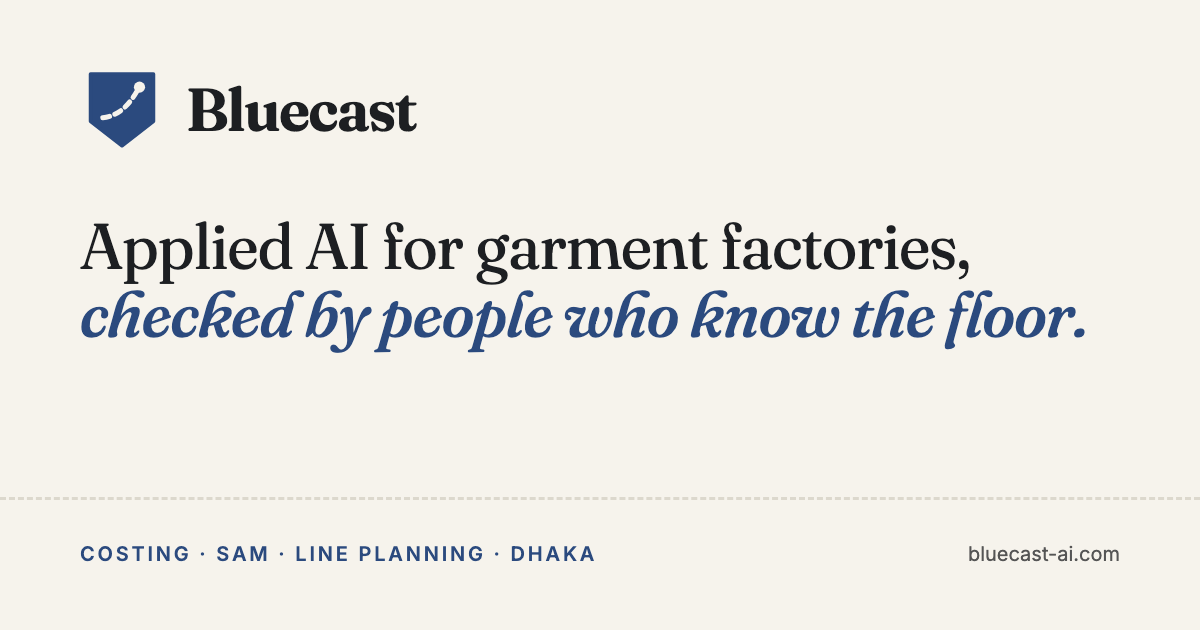
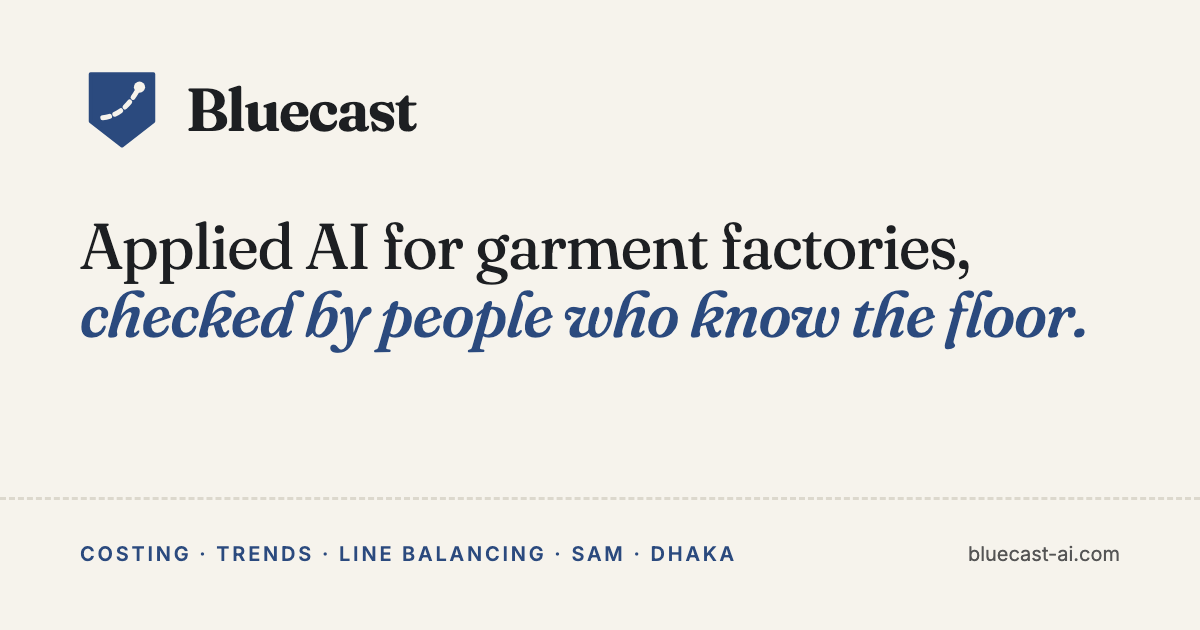
Remove planning dashboards and reorder services
New order: AI pre-costing, product trend intelligence, line balancing,
SAM from video. Update counts, descriptions, team lead line and the
social image.

Claude-Session: https://claude.ai/code/session_01UXRmXdToK17FQkF1tQ9JCa

Changed region(s): [[0.185, 0.8444, 0.6167, 0.9048]]

diff --git a/services.html b/services.html
@@ -5,9 +5,9 @@
 <meta name="viewport" content="width=device-width, initial-scale=1">
 <meta name="theme-color" content="#f6f3ec">
 <title>Services · Bluecast AI</title>
-<meta name="description" content="Five services for Bangladesh RMG factories: AI pre-costing, SAM from video, line balancing, planning dashboards and product trend intelligence.">
+<meta name="description" content="Four services for Bangladesh RMG factories: AI pre-costing, product trend intelligence, line balancing and SAM from video.">
 <meta property="og:title" content="Services · Bluecast AI">
-<meta property="og:description" content="AI pre-costing, SAM from video, line balancing, planning dashboards and product trend intelligence for RMG factories.">
+<meta property="og:description" content="AI pre-costing, product trend intelligence, line balancing and SAM from video for RMG factories.">
 <meta property="og:type" content="website">
 <meta property="og:url" content="https://bluecast-ai.com/services.html">
 <meta property="og:site_name" content="Bluecast AI">
@@ -45,8 +45,8 @@
   <section class="hero">
     <div class="wrap">
       <span class="eyebrow">Services</span>
-      <h1>Five services. <em>Each one ends with your <span class="nowrap">sign-off.</span></em></h1>
-      <p class="lede">The first four follow a garment from quote to floor to plan. The fifth helps product development teams see what buyers are moving towards.</p>
+      <h1>Four services. <em>Each one ends with your <span class="nowrap">sign-off.</span></em></h1>
+      <p class="lede">Two work before the order, on the quote and the buyer trend. Two work on the line, on balance and time.</p>
     </div>
   </section>
 
@@ -78,28 +78,31 @@
       </div>
     </section>
 
-    <section class="service" id="sam-video">
+    <section class="service" id="trend-intelligence">
       <div>
         <span class="num">02</span>
-        <h2>SAM from video</h2>
-        <span class="stage">Pilot · seeking first lines</span>
+        <h2>Product trend intelligence platform</h2>
+        <span class="stage">Platform in development</span>
         <div class="illo" aria-hidden="true">
           <svg viewBox="0 0 360 120" fill="none" stroke="currentColor" stroke-width="1.5" stroke-linecap="round" stroke-linejoin="round">
-            <rect x="10" y="34" width="70" height="50" rx="6"/><path d="M80 50l22-12v42l-22-12"/><circle cx="45" cy="59" r="12"/>
-            <path d="M126 59h86" stroke="var(--accent)" stroke-dasharray="4 5"/><path d="M206 53l8 6-8 6" stroke="var(--accent)"/>
-            <circle cx="288" cy="64" r="40"/><path d="M280 18h16M288 18v6"/>
-            <path d="M288 64V38" stroke="var(--accent)"/><path d="M288 64l18 12"/>
+            <path d="M8 20h92"/>
+            <path d="M24 20v8M54 20v8M84 20v8"/>
+            <path d="M16 28h16l2 66H14zM46 28h16l2 66H44zM76 28h16l2 66H74z"/>
+            <path d="M128 58h76" stroke="var(--accent)" stroke-dasharray="4 5"/><path d="M198 52l8 6-8 6" stroke="var(--accent)"/>
+            <rect x="232" y="14" width="116" height="92" rx="4"/>
+            <path d="M246 32h60M246 44h40"/>
+            <rect x="246" y="58" width="38" height="36" rx="3" stroke="var(--accent)"/><rect x="296" y="58" width="38" height="36" rx="3" stroke="var(--accent)"/>
           </svg>
         </div>
       </div>
       <div>
-        <p class="lede">CM, line targets and capacity are all set from SAM. It is usually estimated once, at costing. Few operations are timed.</p>
-        <p>We record a line with a phone or fixed camera. The model is built to find each operation cycle and measure its time. Your IE confirms method, rating and allowances before any SAM changes.</p>
+        <p class="lede">For PD&amp;D and design teams. Today a designer builds the buyer trend deck by hand, every season.</p>
+        <p>AI agents read public retailer product pages and track what is new on the shelf. They draft a trend report and design concepts, each linked to the products behind it. Designers review and edit the draft before anything goes to a buyer.</p>
         <div class="io">
-          <div><b>What goes in</b><p>Video of one line, plus your operation bulletin.</p></div>
-          <div><b>What comes out</b><p>Measured time for every operation, compared with the bulletin.</p></div>
+          <div><b>What goes in</b><p>The buyers and categories your team designs for.</p></div>
+          <div><b>What comes out</b><p>A draft trend report and design concepts, with the products they came from.</p></div>
         </div>
-        <p class="note">Pilot terms: one line, one product family, measured against your own bulletin.</p>
+        <p class="note">We are building <strong>Bluecast</strong>, our trend intelligence platform.</p>
       </div>
     </section>
 
@@ -128,57 +131,28 @@
       </div>
     </section>
 
-    <section class="service" id="planning">
+    <section class="service" id="sam-video">
       <div>
         <span class="num">04</span>
-        <h2>Planning dashboards</h2>
-        <span class="stage">Prototype</span>
+        <h2>SAM from video</h2>
+        <span class="stage">Pilot · seeking first lines</span>
         <div class="illo" aria-hidden="true">
           <svg viewBox="0 0 360 120" fill="none" stroke="currentColor" stroke-width="1.5" stroke-linecap="round" stroke-linejoin="round">
-            <rect x="10" y="30" width="44" height="56" rx="3"/><rect x="22" y="22" width="44" height="56" rx="3" fill="var(--paper)"/><rect x="34" y="14" width="44" height="56" rx="3" fill="var(--paper)"/>
-            <path d="M44 28h24M44 38h24M44 48h16"/>
-            <path d="M110 56h86" stroke="var(--accent)" stroke-dasharray="4 5"/><path d="M190 50l8 6-8 6" stroke="var(--accent)"/>
-            <rect x="228" y="16" width="120" height="84" rx="6"/>
-            <path d="M228 36h120"/><path d="M244 56h36M244 70h52M244 84h28"/>
-            <circle cx="324" cy="70" r="12" stroke="var(--accent)"/>
+            <rect x="10" y="34" width="70" height="50" rx="6"/><path d="M80 50l22-12v42l-22-12"/><circle cx="45" cy="59" r="12"/>
+            <path d="M126 59h86" stroke="var(--accent)" stroke-dasharray="4 5"/><path d="M206 53l8 6-8 6" stroke="var(--accent)"/>
+            <circle cx="288" cy="64" r="40"/><path d="M280 18h16M288 18v6"/>
+            <path d="M288 64V38" stroke="var(--accent)"/><path d="M288 64l18 12"/>
           </svg>
         </div>
       </div>
       <div>
-        <p class="lede">One morning view, built from the plan sheets you already keep.</p>
-        <p>Planners stop stitching spreadsheets together each day. The dashboard reads your own plan data and shows where each line stands against plan. Your team owns it. There is no licence fee.</p>
+        <p class="lede">CM, line targets and capacity are all set from SAM. It is usually estimated once, at costing. Few operations are timed.</p>
+        <p>We record a line with a phone or fixed camera. The model is built to find each operation cycle and measure its time. Your IE confirms method, rating and allowances before any SAM changes.</p>
         <div class="io">
-          <div><b>What goes in</b><p>The plan and production sheets your team already keeps.</p></div>
-          <div><b>What comes out</b><p>One shared view of the plan for the morning meeting.</p></div>
+          <div><b>What goes in</b><p>Video of one line, plus your operation bulletin.</p></div>
+          <div><b>What comes out</b><p>Measured time for every operation, compared with the bulletin.</p></div>
         </div>
-      </div>
-    </section>
-
-    <section class="service" id="trend-intelligence">
-      <div>
-        <span class="num">05</span>
-        <h2>Product trend intelligence platform</h2>
-        <span class="stage">Platform in development</span>
-        <div class="illo" aria-hidden="true">
-          <svg viewBox="0 0 360 120" fill="none" stroke="currentColor" stroke-width="1.5" stroke-linecap="round" stroke-linejoin="round">
-            <path d="M8 20h92"/>
-            <path d="M24 20v8M54 20v8M84 20v8"/>
-            <path d="M16 28h16l2 66H14zM46 28h16l2 66H44zM76 28h16l2 66H74z"/>
-            <path d="M128 58h76" stroke="var(--accent)" stroke-dasharray="4 5"/><path d="M198 52l8 6-8 6" stroke="var(--accent)"/>
-            <rect x="232" y="14" width="116" height="92" rx="4"/>
-            <path d="M246 32h60M246 44h40"/>
-            <rect x="246" y="58" width="38" height="36" rx="3" stroke="var(--accent)"/><rect x="296" y="58" width="38" height="36" rx="3" stroke="var(--accent)"/>
-          </svg>
-        </div>
-      </div>
-      <div>
-        <p class="lede">For PD&amp;D and design teams. Today a designer builds the buyer trend deck by hand, every season.</p>
-        <p>AI agents read public retailer product pages and track what is new on the shelf. They draft a trend report and design concepts, each linked to the products behind it. Designers review and edit the draft before anything goes to a buyer.</p>
-        <div class="io">
-          <div><b>What goes in</b><p>The buyers and categories your team designs for.</p></div>
-          <div><b>What comes out</b><p>A draft trend report and design concepts, with the products they came from.</p></div>
-        </div>
-        <p class="note">We are building <strong>Bluecast</strong>, our trend intelligence platform.</p>
+        <p class="note">Pilot terms: one line, one product family, measured against your own bulletin.</p>
       </div>
     </section>
 

diff --git a/index.html b/index.html
@@ -5,9 +5,9 @@
 <meta name="viewport" content="width=device-width, initial-scale=1">
 <meta name="theme-color" content="#f6f3ec">
 <title>Bluecast AI · Applied AI for garment factories</title>
-<meta name="description" content="Bluecast AI builds AI tools for costing, SAM, line planning and product trends in Bangladesh RMG factories. Your team signs off on every result.">
+<meta name="description" content="Bluecast AI builds AI tools for costing, product trends, line balancing and SAM in Bangladesh RMG factories. Your team signs off on every result.">
 <meta property="og:title" content="Bluecast AI · Applied AI for garment factories">
-<meta property="og:description" content="AI tools for costing, SAM, line planning and product trends in Bangladesh RMG. Your team signs off on every result.">
+<meta property="og:description" content="AI tools for costing, product trends, line balancing and SAM in Bangladesh RMG. Your team signs off on every result.">
 <meta property="og:type" content="website">
 <meta property="og:url" content="https://bluecast-ai.com/">
 <meta property="og:site_name" content="Bluecast AI">
@@ -46,7 +46,7 @@
     <div class="wrap">
       <span class="eyebrow">Applied AI for RMG factories · Dhaka</span>
       <h1>Applied AI for garment factories,<br> <em>checked by people who know the floor.</em></h1>
-      <p class="lede">We build AI tools for costing, SAM, line planning and product trends in Bangladesh RMG. Your team signs off on every result.</p>
+      <p class="lede">We build AI tools for costing, product trends, line balancing and SAM in Bangladesh RMG. Your team signs off on every result.</p>
       <div class="btn-row">
         <a class="btn" href="contact.html">Talk to us</a>
         <a class="btn btn--ghost" href="services.html">See services</a>
@@ -58,14 +58,13 @@
     <div class="wrap">
       <div class="section-head reveal">
         <span class="eyebrow">What we offer</span>
-        <h2 id="services-h">Five services, one way of working.</h2>
+        <h2 id="services-h">Four services, one way of working.</h2>
       </div>
       <ul class="svc-list reveal">
         <li><a href="services.html#pre-costing"><span class="num">01</span><h3>AI pre-costing</h3><p>Tech pack in, draft quote out.</p></a></li>
-        <li><a href="services.html#sam-video"><span class="num">02</span><h3>SAM from video</h3><p>Operation times measured from line video.</p></a></li>
+        <li><a href="services.html#trend-intelligence"><span class="num">02</span><h3>Product trend intelligence platform</h3><p>Buyer trend research for PD&amp;D teams, drafted by AI agents.</p></a></li>
         <li><a href="services.html#line-balancing"><span class="num">03</span><h3>Line balancing</h3><p>Rebalance the line around the real bottleneck.</p></a></li>
-        <li><a href="services.html#planning"><span class="num">04</span><h3>Planning dashboards</h3><p>One morning view of the plan, from sheets you already keep.</p></a></li>
-        <li><a href="services.html#trend-intelligence"><span class="num">05</span><h3>Product trend intelligence platform</h3><p>Buyer trend research for PD&amp;D teams, drafted by AI agents.</p></a></li>
+        <li><a href="services.html#sam-video"><span class="num">04</span><h3>SAM from video</h3><p>Operation times measured from line video.</p></a></li>
       </ul>
     </div>
   </section>

diff --git a/team.html b/team.html
@@ -64,7 +64,7 @@
         <span class="eyebrow">Lead Solution Engineer</span>
         <h2>Jahurul Islam</h2>
         <p class="cred">BSc, Industrial &amp; Production Engineering. Fifteen years in lean, IE and planning.</p>
-        <p class="leads"><b>Leads</b>Line balancing, planning dashboards and on-site rollout.</p>
+        <p class="leads"><b>Leads</b>Line balancing and on-site rollout.</p>
       </article>
       <article class="person reveal">
         <img src="assets/team/ferdous-sarwar.jpg" alt="Prof. Ferdous Sarwar" width="148" height="148">
